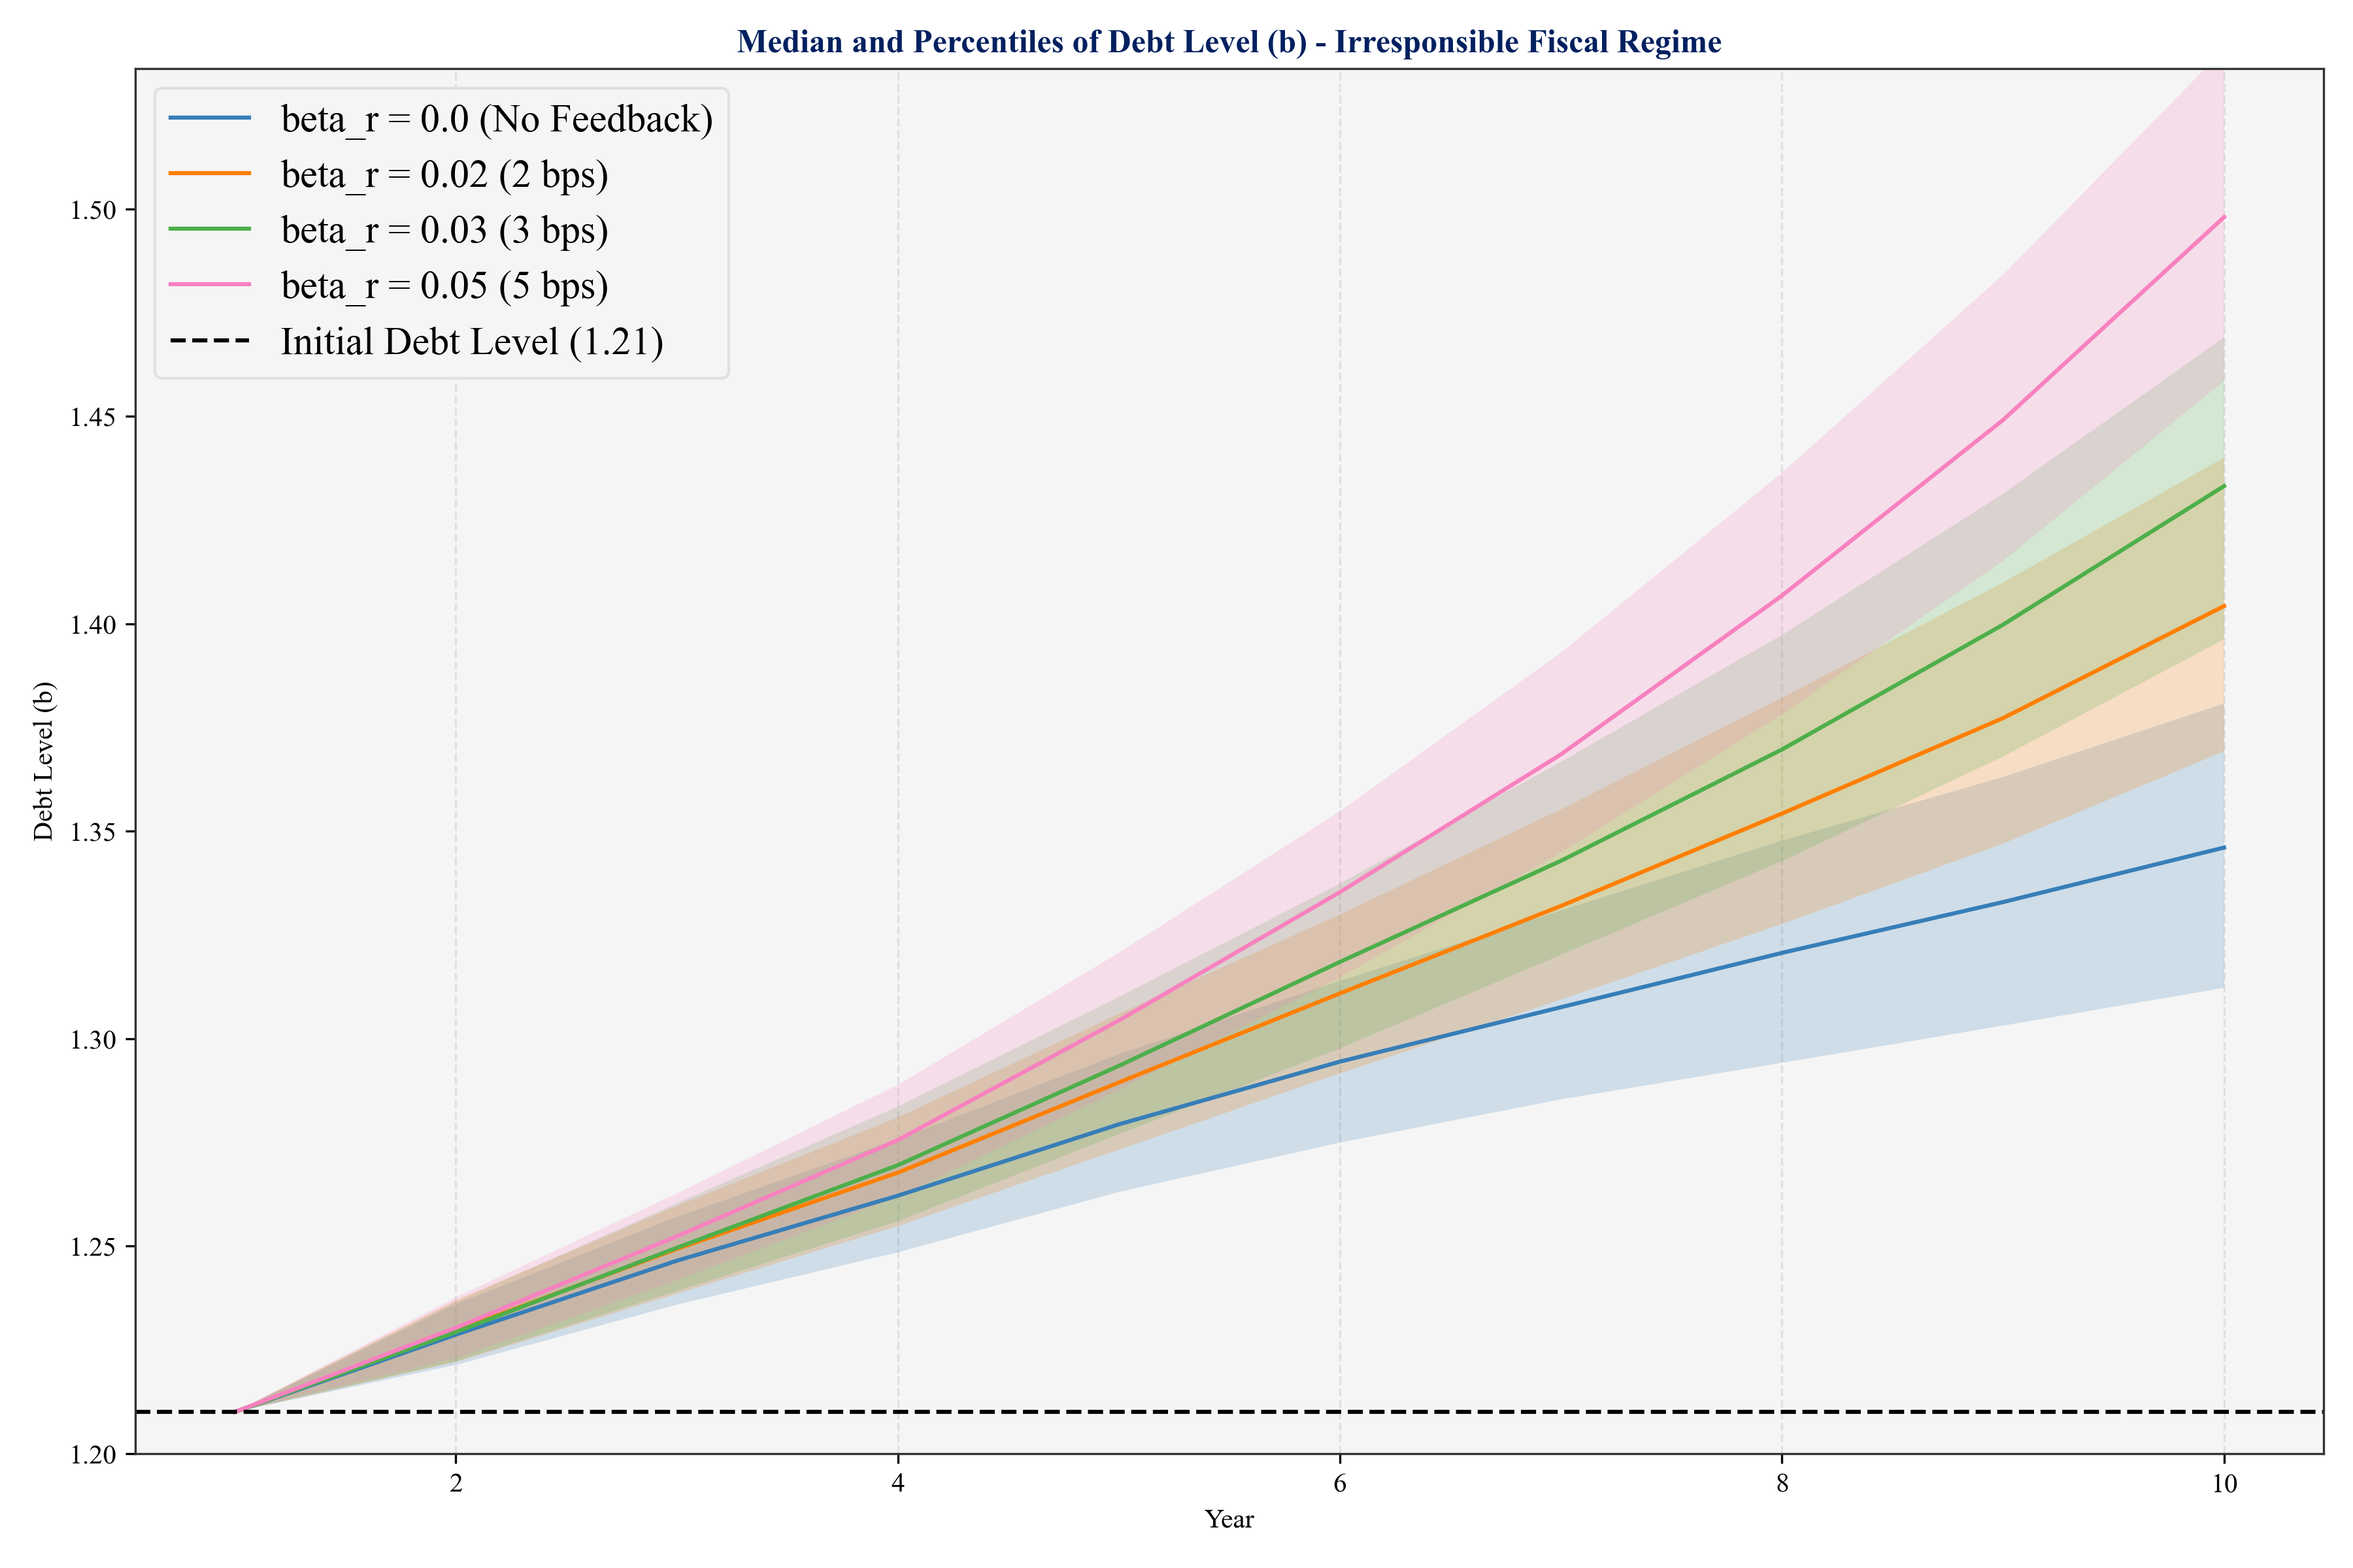
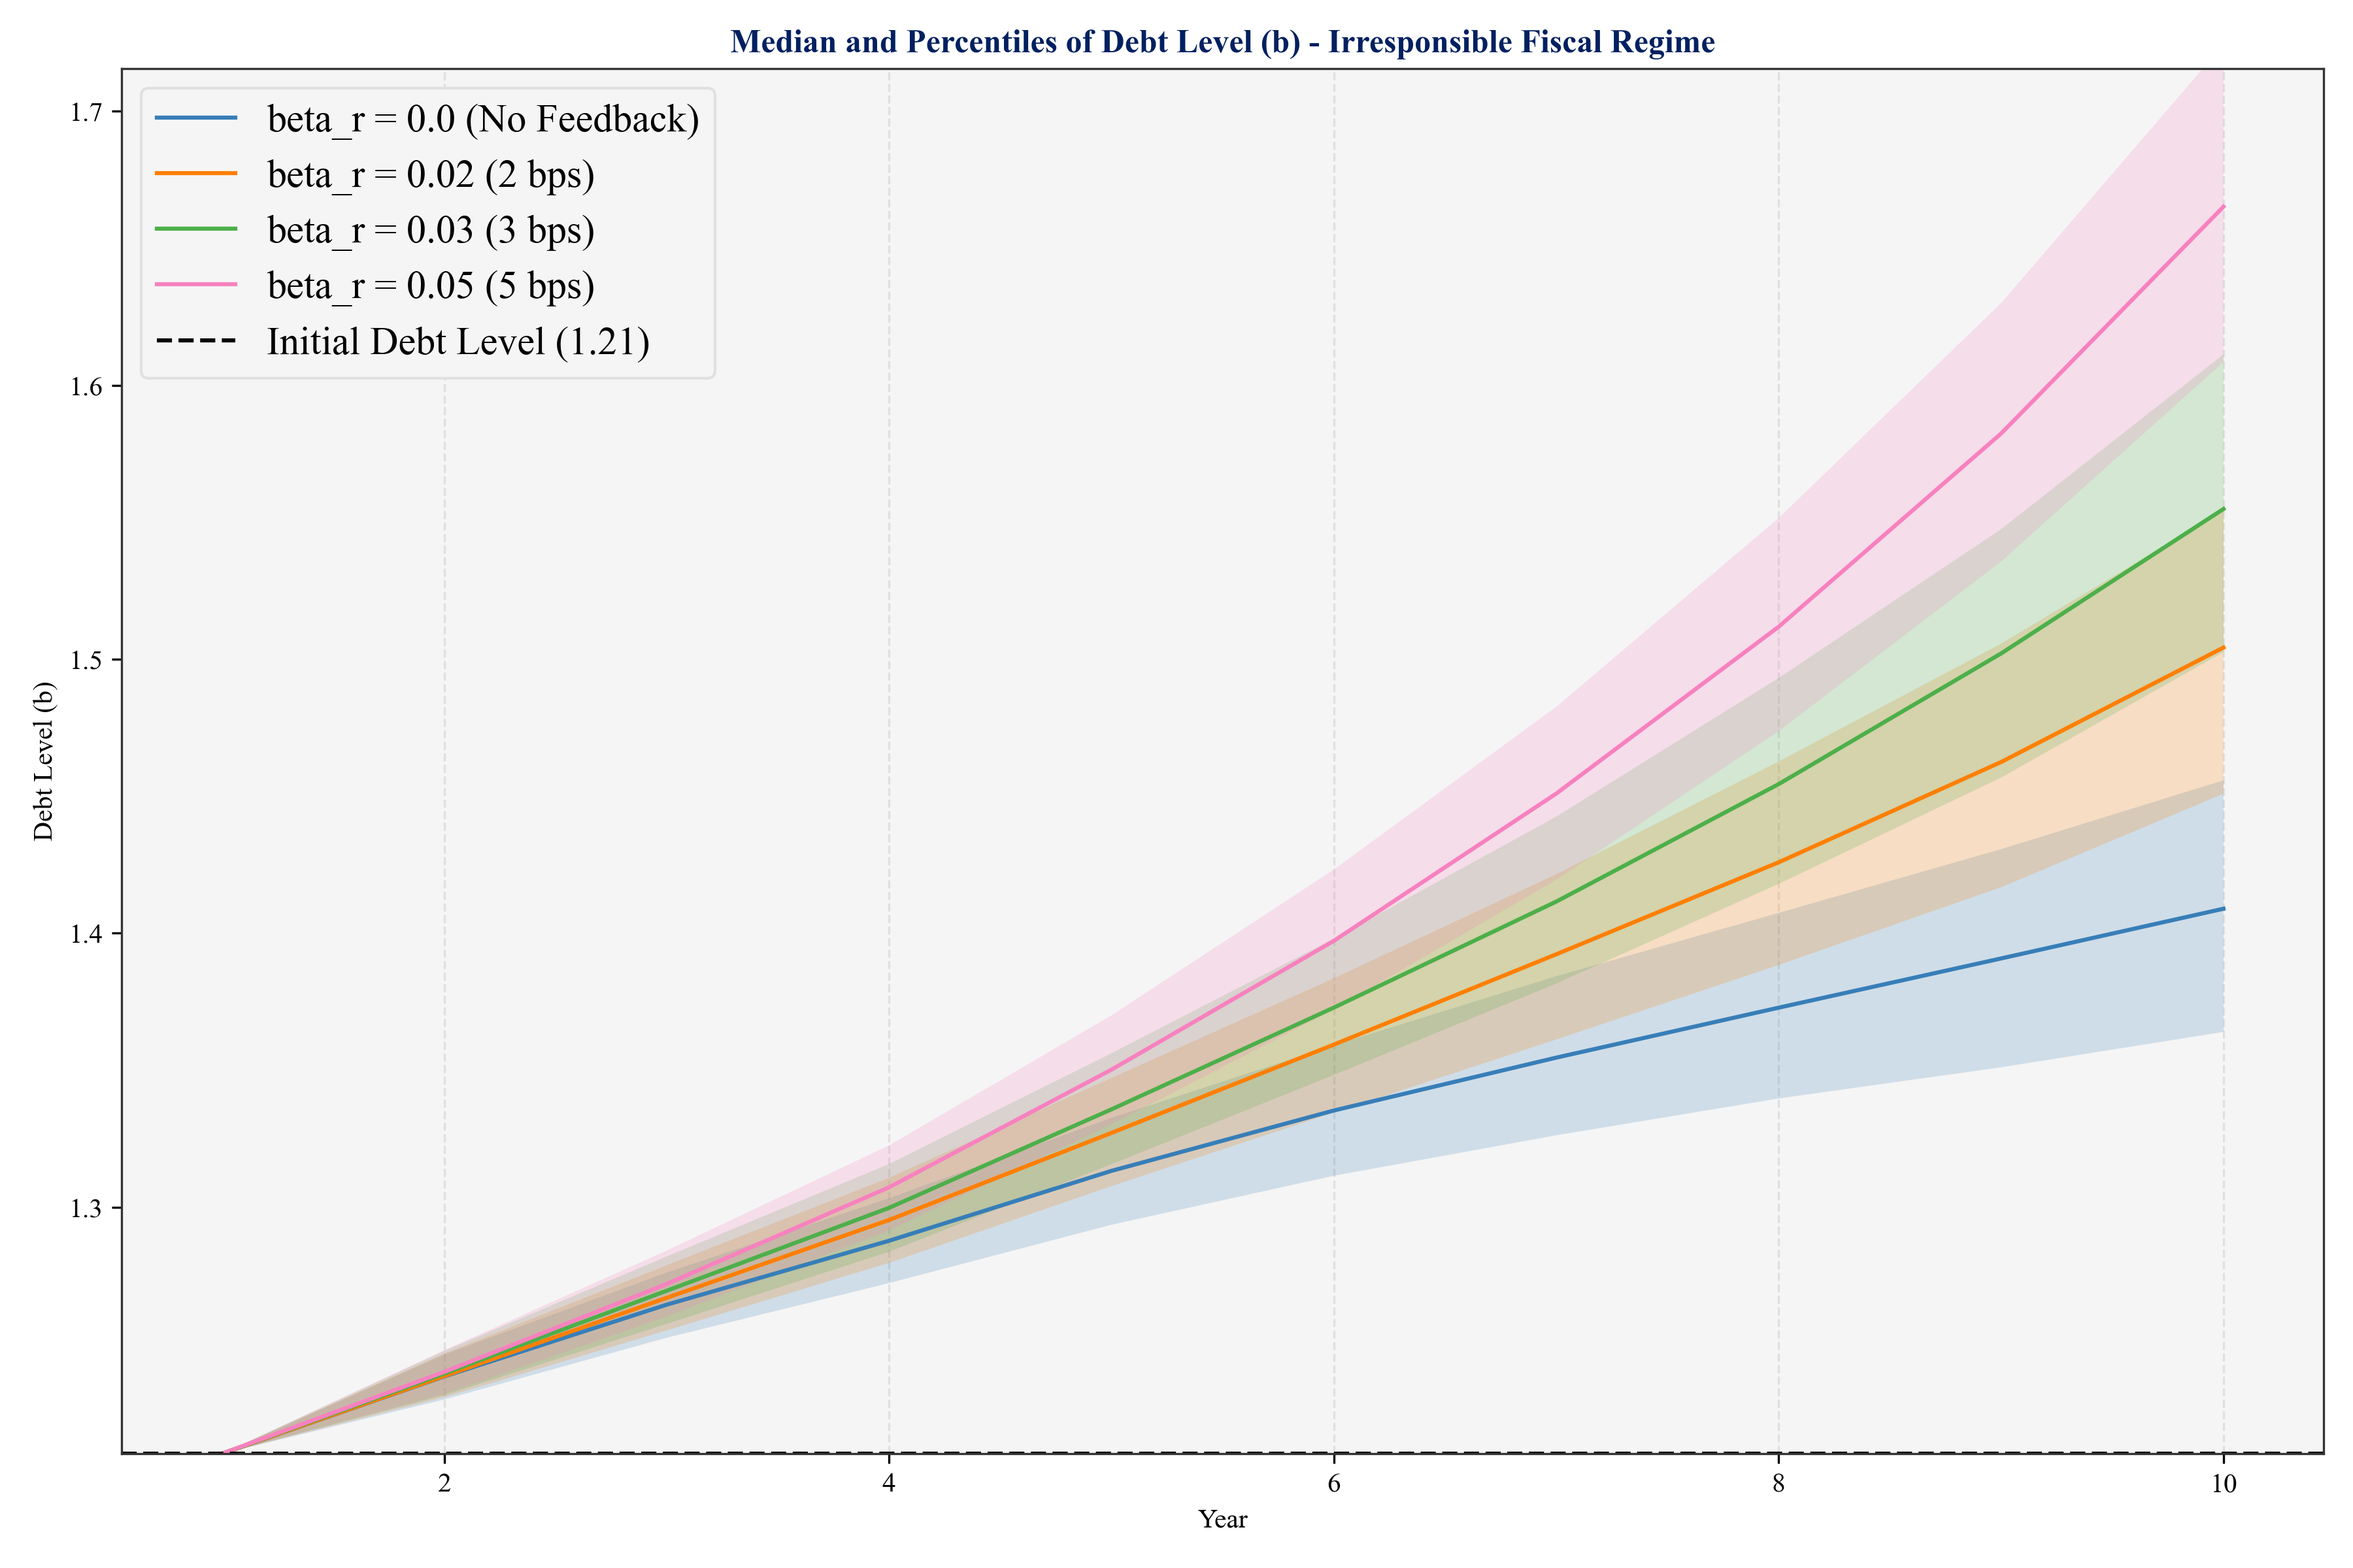
intermediate update

diff --git a/code/sdsa_basic.py b/code/sdsa_basic.py
@@ -592,8 +592,8 @@ b0 = 1.21  # initial debt level
  
 # for different levels of c, run the simulation 
 d_dict = {
-    'irresponsible': 0.33,
-    'responsible': 0.67
+    'irresponsible': 0,
+    'responsible': 0.15
 }
 beta_r_dict = {
     'No Feedback': 0.0,
@@ -604,6 +604,7 @@ beta_r_dict = {
 
 # Precompute global y-limits for each plot type
 ylim_dict = {
+    'g': [],
     "r": [],
     "rg": [],
     "b": [],
@@ -669,7 +670,28 @@ for label, c_val in d_dict.items():
             label=label
         )
     # now plot the results 
-    # first, plot path of interest rates 
+    # first plot the path of growth 
+    plt.figure(figsize=(12, 8))
+    for beta_r_label, beta_r in beta_r_dict.items():
+        df_sim = sim_results[beta_r]
+        df_mean = df_sim.groupby('year').agg(
+            g_median=('g', 'median'),
+            g_25th=('g', lambda x: np.percentile(x, 25)),
+            g_75th=('g', lambda x: np.percentile(x, 75))
+        ).reset_index()
+        plt.plot(df_mean['year'], df_mean['g_median'], label=f'beta_r = {beta_r} ({beta_r_label})')
+        plt.fill_between(df_mean['year'], df_mean['g_25th'], df_mean['g_75th'], alpha=0.2)
+    plt.xlabel('Year')
+    plt.ylabel('Growth Rate (g)')
+    plt.title(f'Median and Percentiles of Growth Rate (g) - {label.title()} Fiscal Regime')
+    plt.legend(loc='best', fontsize='x-large')
+    plt.grid()
+    plt.ylim(*ylim_bounds["g"])
+    plt.tight_layout()
+    plt.savefig(graphics_path / f'sdsa_growth_{label}.png', dpi=300)
+    plt.show()
+
+    # plot path of interest rates 
     plt.figure(figsize=(12, 8))
     for beta_r_label, beta_r in beta_r_dict.items():
         df_sim = sim_results[beta_r]
